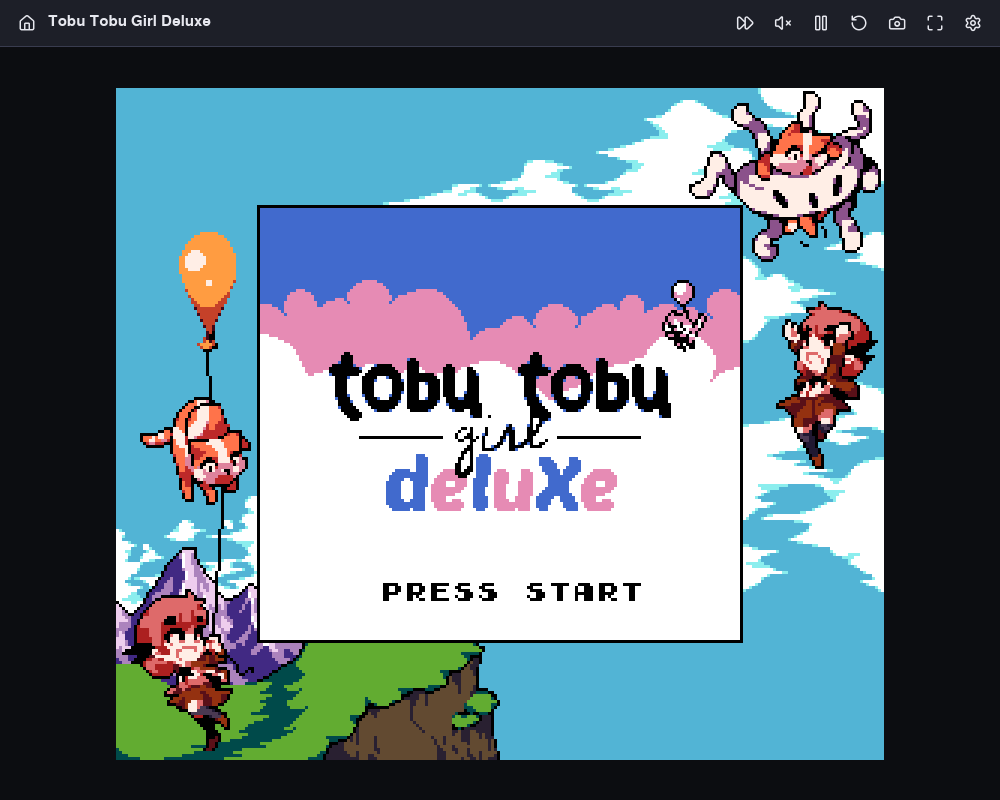
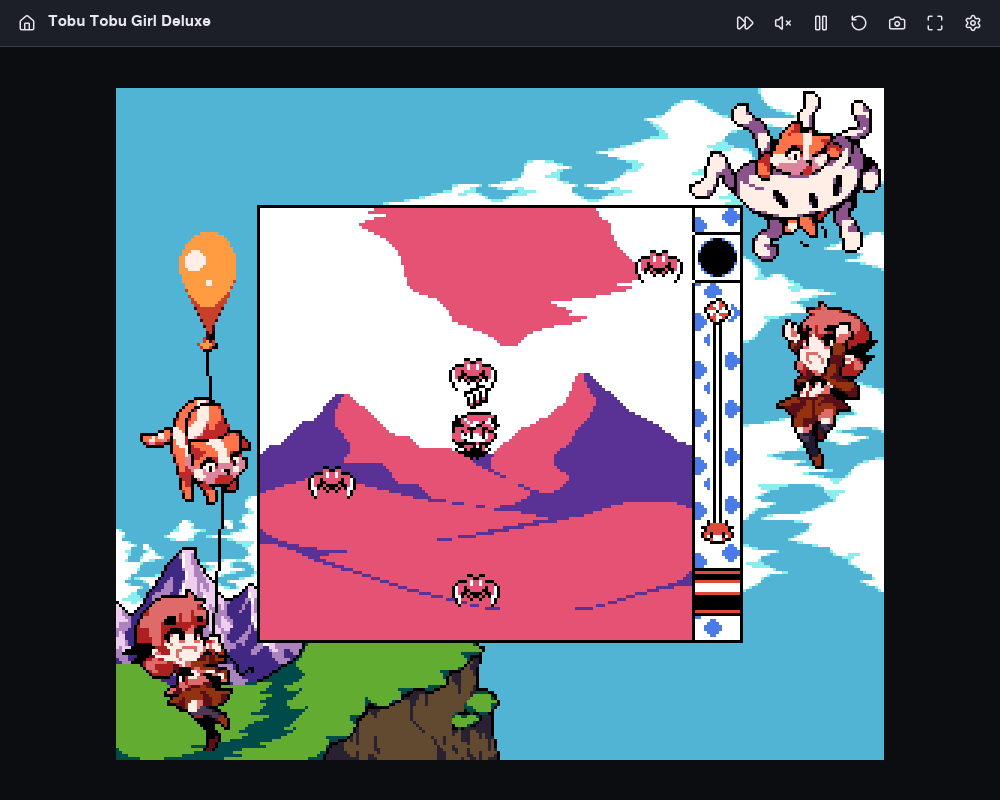
Show Tobu Tobu Girl Deluxe being played in the README's first screenshot
The first screenshot showed the game's title screen; it now shows a
level in play, still inside the game's own Super Game Boy border, taken
in the app with the game's name in the title bar.

Claude-Session: https://claude.ai/code/session_01Q6upZCbr5CSSw2wBNPS5w9

Changed region(s): [[0.248, 0.25, 0.744, 0.8125]]

diff --git a/README.md b/README.md
@@ -26,7 +26,7 @@ Nubo plays your Game Boy and Game Boy Color games the way you remember them. It 
 Point it at your ROM folder and your games appear in a library with their title screens, the ones you played last up front. Save anywhere with a save state, pick up right where you left off, play with a keyboard or a controller, and see Super Game Boy games in their own colors and borders, as they looked on a TV.
 
 <p align="center">
-  <img src="images/screenshots/super-game-boy.png" width="700" alt="Tobu Tobu Girl Deluxe in Nubo, inside the game's own illustrated Super Game Boy border">
+  <img src="images/screenshots/super-game-boy.png" width="700" alt="Tobu Tobu Girl Deluxe being played in Nubo: the girl jumps toward a crab over pink mountains, inside the game's own illustrated Super Game Boy border">
 </p>
 
 ## Download
